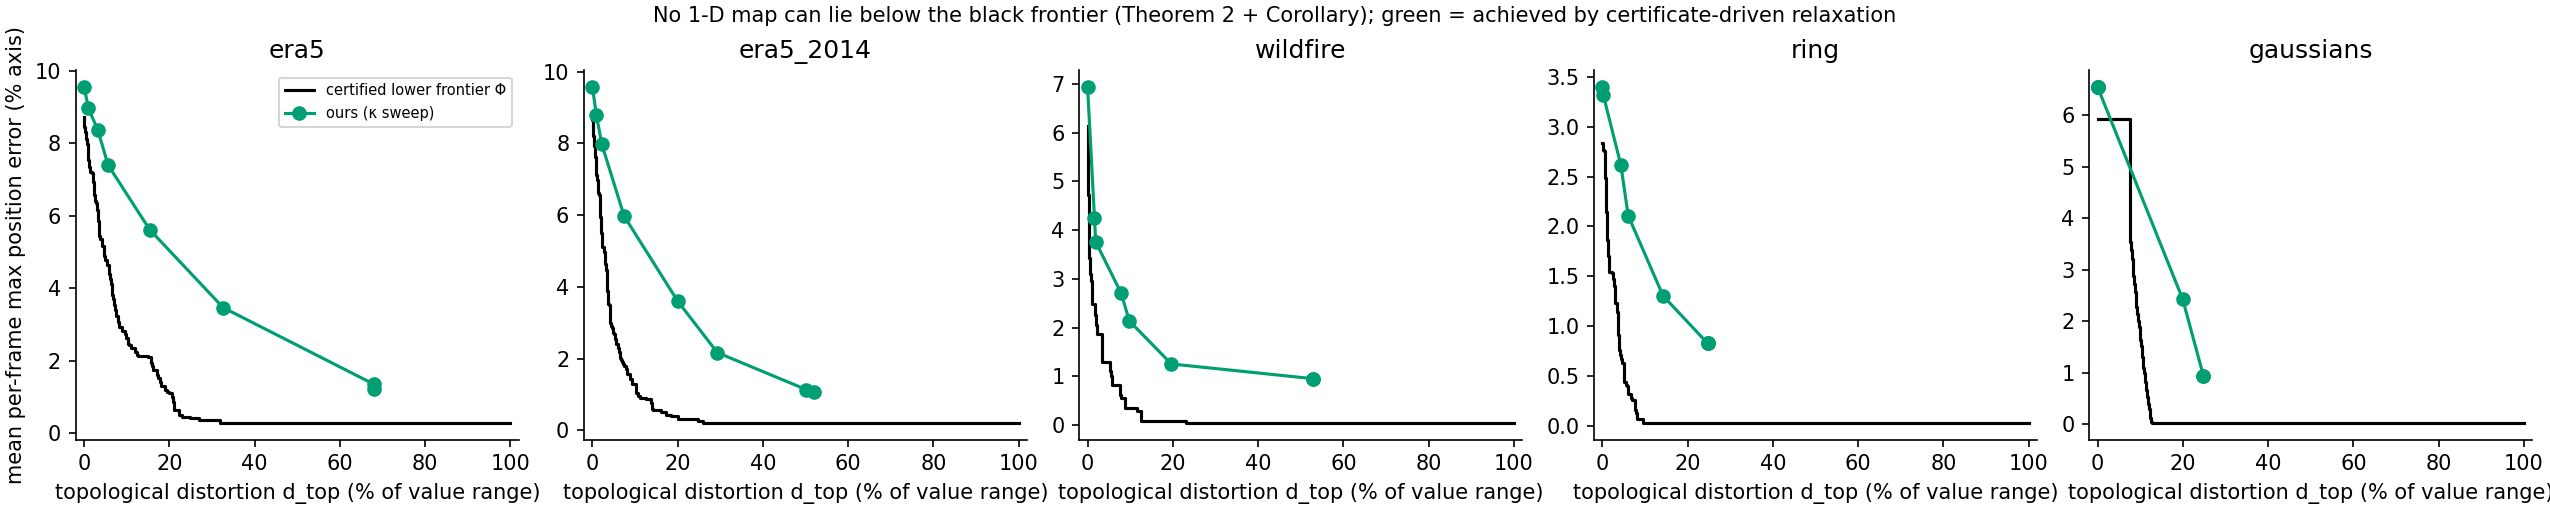
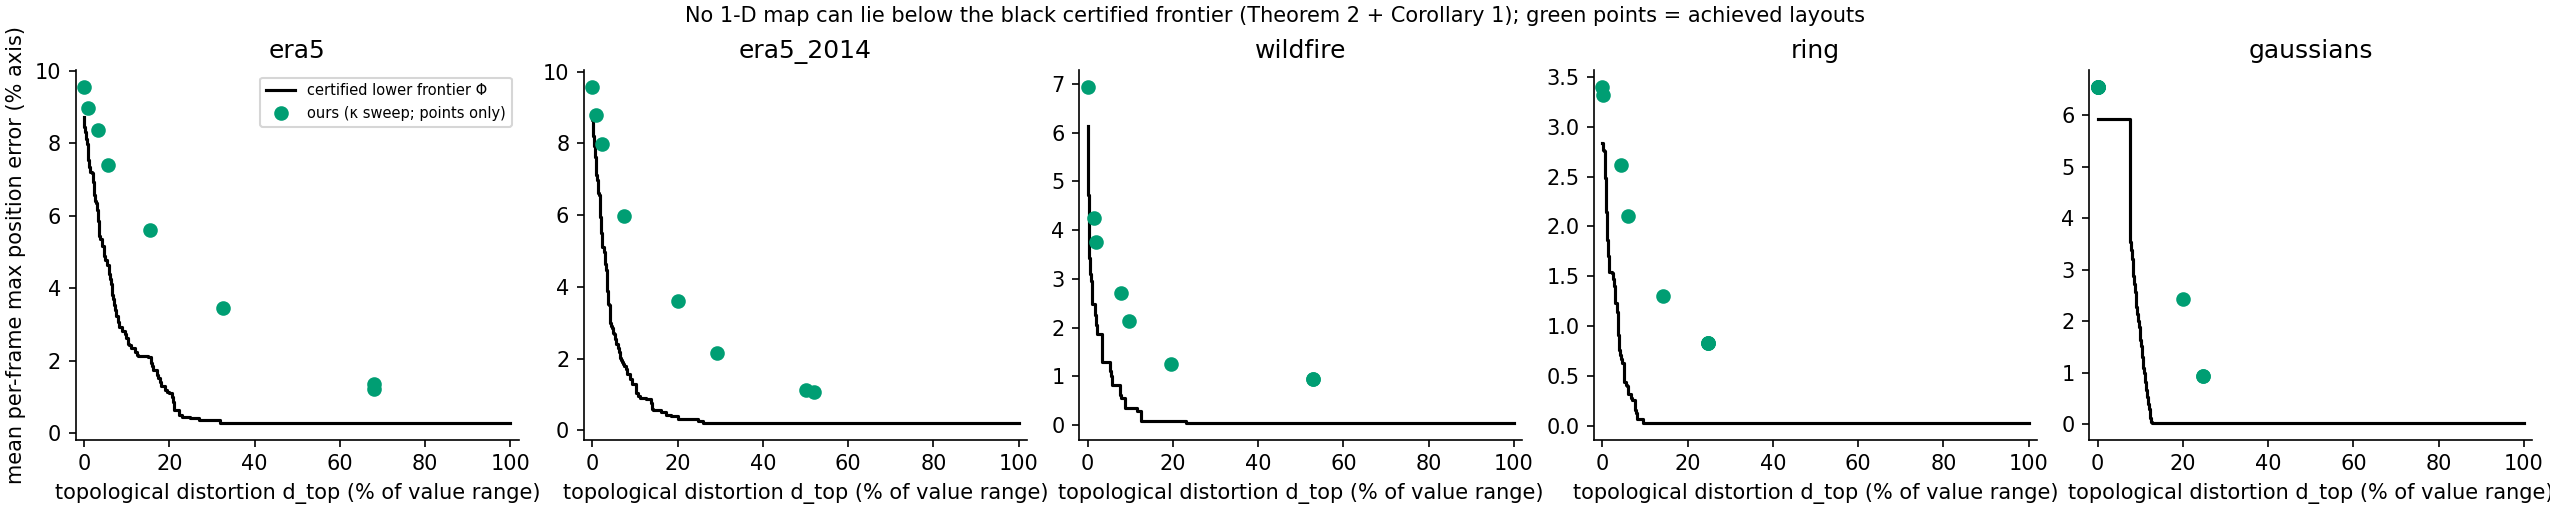
Apply partial round-2 findings: plot points only, permutation-null wording, abstract qualifications, log pruned certificate

diff --git a/prototypes/frontier.py b/prototypes/frontier.py
@@ -77,11 +77,11 @@ def main():
     for ax, (n, r) in zip(axs, res.items()):
         ax.step([f['delta'] * 100 for f in r['frontier']], [f['mean_Phi_share'] * 100 for f in r['frontier']], where='post',
                 color='k', label='certified lower frontier Φ')
-        ax.plot([a['D_share'] * 100 for a in r['achieved']], [a['E_share'] * 100 for a in r['achieved']], 'o-', color='#009e73', label='ours (κ sweep)')
+        ax.plot([a['D_share'] * 100 for a in r['achieved']], [a['E_share'] * 100 for a in r['achieved']], 'o', color='#009e73', label='ours (κ sweep; points only)')
         ax.set(title=n, xlabel='topological distortion d_top (% of value range)', ylabel='mean per-frame max position error (% axis)' if n == 'era5' else '')
         ax.set_xlim(-2, 102)
     axs[0].legend(fontsize=7)
-    fig.suptitle('No 1-D map can lie below the black frontier (Theorem 2 + Corollary); green = achieved by certificate-driven relaxation', fontsize=10)
+    fig.suptitle('No 1-D map can lie below the black frontier (Theorem 2 + Corollary); green points = achieved layouts (not connected: only points are achieved)', fontsize=10)
     fig.savefig(OUT / 'frontier.png', dpi=150); plt.close(fig)
 
 

diff --git a/prototypes/replicate.py b/prototypes/replicate.py
@@ -65,7 +65,7 @@ def overview(results):
             ax.bar(i, x['T2D_reversal_rate'] * 100, color=col, yerr=[[max(0, (x['T2D_reversal_rate'] - lo) * 100)], [max(0, (hi - x['T2D_reversal_rate']) * 100)]], capsize=2)
             ax.plot([i - .4, i + .4], [x['T2D_null_reversal_rate'] * 100] * 2, 'k--', lw=.8)
         ax.set_xticks(range(len(methods)), ['TMTM', 'ST', 'fixX', 'A', 'R'], fontsize=8)
-        ax.set(ylabel='reversal rate % (vs 2-D)' if j == 0 else '', title=f'k={k}, n={nclear}; dashed = chance')
+        ax.set(ylabel='sign-disagreement rate % (vs 2-D)' if j == 0 else '', title=f'k={k}, n={nclear}; dashed = permutation null')
     fig.suptitle('Replication: certificate conflicts (top) and approach/separation reversals (bottom); orange = hierarchy cost, grey = space cost', fontsize=10)
     fig.savefig(OUT / 'replicate_overview.png', dpi=150); plt.close(fig)
 

diff --git a/prototypes/relax_hierarchy.py b/prototypes/relax_hierarchy.py
@@ -130,7 +130,7 @@ def relax_frame_threshold(fr, leaves, w, q, p, theta, tfree, value_cap=np.inf, N
         W2 = [x for x in W if x != v]
         if tau(W2) <= tW + tol: W = W2
     steps = [dict(node=int(v), merge_level_change=g[v]) for v in W]
-    return th.flatten_set(s0, W), steps, tW
+    return th.flatten_set(s0, W), steps, tau(W)          # certificate of the PRUNED hierarchy
 
 
 # -------------------------------------------------------- sequence solving

diff --git a/paper/draft_zh.md b/paper/draft_zh.md
@@ -15,8 +15,8 @@
 **问题。** 把二维时变数据压缩为一维、再按时间排列的静态图，被广泛用于展示特征随时间的演化。这类图的一维顺序往往受某个层次结构约束：合并树图要求同一子树的叶子相邻，聚类热图与稠密像素图要求树状图（dendrogram）中同一簇的元素相邻。然而，层次约束与空间位置可能相互矛盾。已有方法会度量布局质量，例如 ST-MTM 的距离 stress 与邻域指标，但没有一种方法给出**相对位置参考的不可避免最大偏差**，也没有说明降低这一偏差需要牺牲多少层次信息。
 
 **方法。** 本文把这类图形式化为层次约束的一维区间布局，证明了三个结果：
-1. 对每个时刻，可以在显示分辨率下用多项式时间**精确**计算一个下界 τ\*：任何满足层次约束的布局，其最大位置偏差都不低于 τ\*。τ\* 还可以分解为层次造成的部分与空间容量造成的部分。
-2. **任何**一维图只要打破某个子树的连续性，其合并层级失真（即带标签交错距离）就至少是该合并与其父合并之差的一半，与填充方法无关。
+1. 对每个时刻，可以在显示分辨率下用**伪多项式**时间精确计算（到二分容差）一个下界 τ\*：任何满足层次约束的布局，其最大位置偏差都不低于 τ\*。τ\* 还可以分解为层次造成的部分与空间容量造成的部分。
+2. **任何**一维图只要打破某个子树的连续性，其合并层级失真就至少是该合并与其父合并之差的一半，与填充方法无关；在双射叶标签、叶高不变、无额外极值的条件下，这一失真就是带标签交错距离。
 3. 由以上两点得到一条**位置–拓扑下界曲线**：任何一维图都不可能同时低于它。
 
 **结果。** 在两个领域的三个真实数据集上（两个欧洲气压冬季、一个澳大利亚山火季）：
@@ -339,7 +339,7 @@ D_k = Σ_{m<k} w_m + w_k/2 + (k−1)·g，E_k = Σ_{m>k} w_m + w_k/2 + (n−k)·
 
 ![图 3](../prototypes/output/replicate_overview.png)
 
-**图 3**　上排：逐帧的空间代价 τ_free（灰）与层次代价 H（橙），以轴长百分比表示，虚线为 θ。下排：24 小时（山火为 4 天）内靠近 / 远离判断的读反率（95% 置信区间），虚线为随机水平。
+**图 3**　上排：逐帧的空间代价 τ_free（灰）与层次代价 H（橙），以轴长百分比表示，虚线为 θ。下排：24 小时（山火为 4 天）内几何代理的符号不一致率（95% 置信区间），虚线为置换零假设。
 
 **表 2**　冲突的普遍性
 
@@ -421,7 +421,7 @@ D_k = Σ_{m<k} w_m + w_k/2 + (k−1)·g，E_k = Σ_{m>k} w_m + w_k/2 + (n−k)·
 
 ![图 4](../prototypes/output/frontier.png)
 
-**图 4**　位置–拓扑权衡。黑线为推论 1 的下界曲线，用命题 5′ 计算，因此是连续问题的**严格**下界，并按各帧 Φ_t 的断点精确求值后取平均。绿点为"阈值 + 剪枝"放松在不同 κ 下的实测结果。
+**图 4**　位置–拓扑权衡。黑线为推论 1 的下界曲线，用命题 5′ 计算，因此是连续问题的**严格**下界，并按各帧 Φ_t 的断点精确求值后取平均。绿点为"阈值 + 剪枝"放松在不同 κ 下的实测结果；点与点之间**不连线**，因为连线上的位置并不对应任何实际布局。
 
 - 五个数据集上，**逐帧**检查推论 1（实际最大误差 ≥ Φ_t(d_top,t)）均为 0 次违反；
 - 定理 2 在 924 个存在被打破结点的帧中均为 0 次违反。
